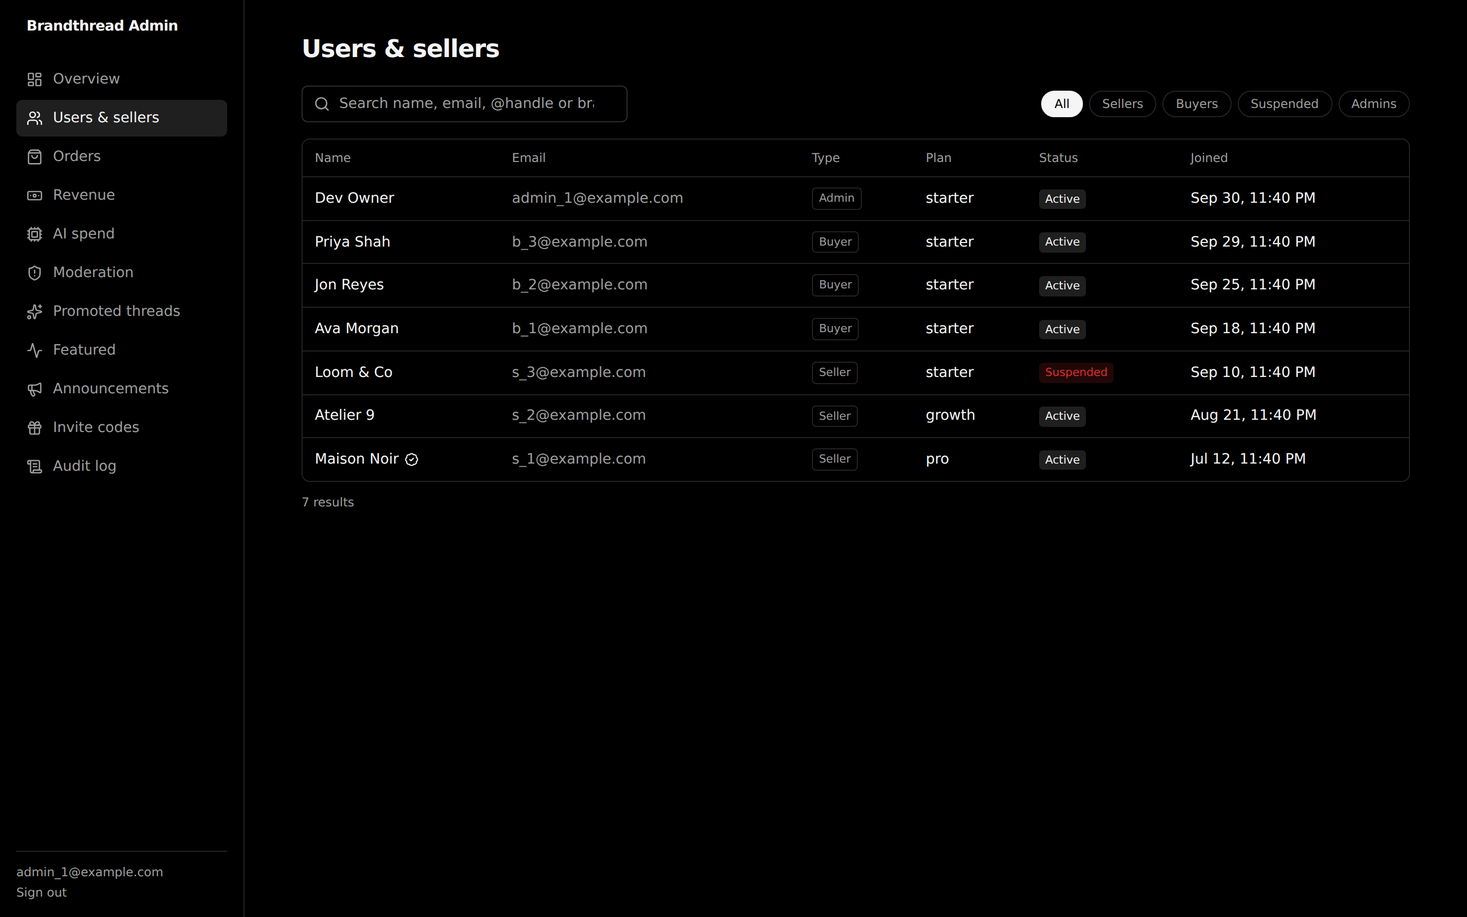
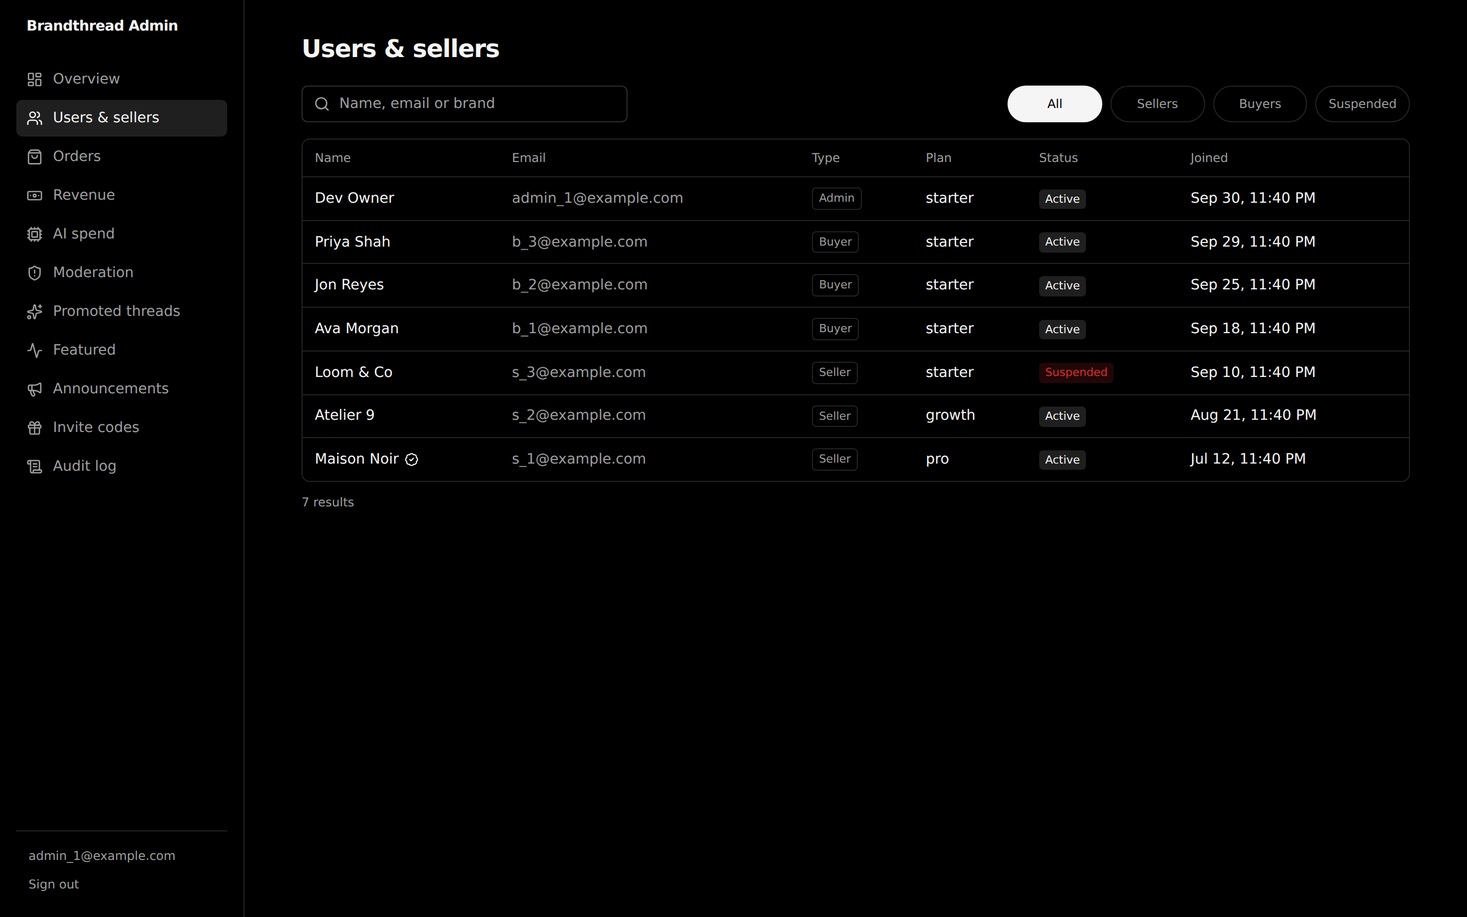
Admin UI: text-fit & alignment pass, automated text-fit check, zoomed captures
- Equal-width chip grids (no ragged rows), ActionButton/ActionGroup for row actions, equal-size
  dialog and sheet buttons, >=12px inner padding everywhere
- No ellipsis/line-clamp on labels; mobile cards wrap instead of truncating
- Shorter placeholders and action labels; left-aligned dialog headers; mobile header without divider
- scripts/text-fit-check.mjs (scrollWidth/clip, spill-out, padding, centring, sibling size, placeholders,
  incl. sheet + dialog states at 393x852 and 1440x900), zoom-shots.mjs, page-shots.mjs

Claude-Session: https://claude.ai/code/session_014DpmGe5j4ymYEjkgVjyfYb

Changed region(s): [[0.6875, 0.0933, 0.9688, 0.1556], [0.0, 0.9022, 0.125, 0.9956], [0.2188, 0.0933, 0.4062, 0.1244]]

diff --git a/artifacts/manufacturer-portal/src/admin/ui.tsx b/artifacts/manufacturer-portal/src/admin/ui.tsx
@@ -1,4 +1,5 @@
 import { useEffect, useState, type ReactNode } from "react";
+import type React from "react";
 import { Search, X } from "lucide-react";
 import { cn } from "@/lib/utils";
 import { Button } from "@/components/ui/button";
@@ -50,17 +51,39 @@ export function SearchBox({ value, onChange, placeholder }: { value: string; onC
   );
 }
 
+const MOBILE_COLS: Record<number, string> = { 1: "grid-cols-1", 2: "grid-cols-2", 3: "grid-cols-3", 6: "grid-cols-3" };
+
+/** Filter chips: equal-width cells on one grid (3 per row on phones when there are more than 4). */
 export function Chips<T extends string>({ value, options, onChange }: { value: T; options: { id: T; label: string }[]; onChange: (v: T) => void }) {
+  // Always a full grid (never a ragged last row): 4 short labels fit in one row, 4 long ones go 2x2.
+  const cols = options.length === 4 ? (options.some((o) => o.label.length > 8) ? "grid-cols-2" : "grid-cols-4") : MOBILE_COLS[options.length] ?? "grid-cols-2";
   return (
-    <div className="flex flex-wrap gap-1.5">
+    <div className={cn("grid gap-2 md:inline-grid md:auto-cols-fr md:grid-flow-col md:grid-cols-none", cols)}>
       {options.map((o) => (
         <button key={o.id} onClick={() => onChange(o.id)}
-          className={cn("rounded-full border px-3 py-1 text-xs font-medium", value === o.id ? "border-foreground bg-foreground text-background" : "border-border text-muted-foreground hover:text-foreground")}>
+          className={cn("inline-flex h-9 items-center justify-center whitespace-nowrap rounded-full border px-3 text-xs font-medium",
+            value === o.id ? "border-foreground bg-foreground text-background" : "border-border text-muted-foreground hover:text-foreground")}>
           {o.label}
         </button>
       ))}
     </div>
   );
+}
+
+/** Small outlined row action. Always used inside ActionGroup so siblings match in size. */
+export function ActionButton({ children, solid, ...props }: { solid?: boolean } & React.ButtonHTMLAttributes<HTMLButtonElement>) {
+  return (
+    <button {...props}
+      className={cn("inline-flex h-8 min-w-[5rem] items-center justify-center whitespace-nowrap rounded-md border px-3 text-xs font-medium",
+        solid ? "border-foreground bg-foreground text-background" : "border-border hover:border-foreground")}>
+      {children}
+    </button>
+  );
+}
+
+/** Equal-width, equal-height button row. */
+export function ActionGroup({ children }: { children: ReactNode }) {
+  return <div className="grid auto-cols-fr grid-flow-col gap-2">{children}</div>;
 }
 
 export function Badge({ children, tone = "neutral" }: { children: ReactNode; tone?: "neutral" | "solid" | "outline" | "danger" }) {
@@ -111,8 +134,8 @@ export function DataTable<R>({ columns, rows, rowKey, onRowClick, empty, loading
             <dl className="space-y-1.5">
               {columns.filter((c) => c !== primary).map((c) => (
                 <div key={c.header} className="flex items-baseline justify-between gap-4 text-[13px]">
-                  <dt className="shrink-0 text-muted-foreground">{c.header}</dt>
-                  <dd className="min-w-0 truncate text-right">{c.cell(r)}</dd>
+                  <dt className="shrink-0 whitespace-nowrap text-muted-foreground">{c.header}</dt>
+                  <dd className="min-w-0 break-words text-right">{c.cell(r)}</dd>
                 </div>
               ))}
             </dl>
@@ -129,8 +152,8 @@ export function Pager({ offset, limit, hasMore, total, onChange }: { offset: num
     <div className="mt-3 flex items-center justify-between text-xs text-muted-foreground">
       <span>{total != null ? `${offset + 1}–${Math.min(offset + limit, total)} of ${total}` : `Showing ${offset + 1}+`}</span>
       <div className="flex gap-2">
-        <Button size="sm" variant="outline" disabled={offset === 0} onClick={() => onChange(Math.max(0, offset - limit))}>Previous</Button>
-        <Button size="sm" variant="outline" disabled={!hasMore} onClick={() => onChange(offset + limit)}>Next</Button>
+        <Button size="sm" variant="outline" className="h-8 w-24 px-3" disabled={offset === 0} onClick={() => onChange(Math.max(0, offset - limit))}>Previous</Button>
+        <Button size="sm" variant="outline" className="h-8 w-24 px-3" disabled={!hasMore} onClick={() => onChange(offset + limit)}>Next</Button>
       </div>
     </div>
   );
@@ -146,16 +169,16 @@ export function ConfirmAction({ open, title, description, confirmLabel, reasonLa
   return (
     <AlertDialog open={open} onOpenChange={(o) => !o && onCancel()}>
       <AlertDialogContent className="border-border bg-popover">
-        <AlertDialogHeader>
+        <AlertDialogHeader className="text-left sm:text-left">
           <AlertDialogTitle>{title}</AlertDialogTitle>
           <AlertDialogDescription>{description}</AlertDialogDescription>
         </AlertDialogHeader>
         {reasonLabel && <Textarea value={reason} onChange={(e) => setReason(e.target.value)} placeholder={reasonLabel} maxLength={500} rows={3} />}
         {error ? <p className="text-sm text-destructive">{errorMessage(error)}</p> : null}
-        <AlertDialogFooter>
-          <AlertDialogCancel onClick={onCancel}>Cancel</AlertDialogCancel>
+        <AlertDialogFooter className="grid grid-cols-2 gap-2 sm:space-x-0">
+          <AlertDialogCancel onClick={onCancel} className="mt-0 h-10 w-full px-3">Cancel</AlertDialogCancel>
           <AlertDialogAction disabled={pending || (!!reasonRequired && !reason.trim())} onClick={(e) => { e.preventDefault(); onConfirm(reason.trim()); }}
-            className={cn(destructive && "bg-destructive text-destructive-foreground hover:bg-destructive/90")}>
+            className={cn("h-10 w-full px-3", destructive && "bg-destructive text-destructive-foreground hover:bg-destructive/90")}>
             {pending ? "Working…" : confirmLabel}
           </AlertDialogAction>
         </AlertDialogFooter>

diff --git a/artifacts/manufacturer-portal/src/admin/pages/moderation.tsx b/artifacts/manufacturer-portal/src/admin/pages/moderation.tsx
@@ -1,5 +1,5 @@
 import { useState } from "react";
-import { Badge, Chips, ConfirmAction, DataTable, ErrorLine, PageTitle, Pager, StatCards } from "../ui";
+import { ActionButton, ActionGroup, Badge, Chips, ConfirmAction, DataTable, ErrorLine, PageTitle, Pager, StatCards } from "../ui";
 import { useModerationQuery, useModerationResolve, when } from "../api";
 
 /**
@@ -17,8 +17,8 @@ const LIMIT = 25;
 const who = (p: Person | null) => (p ? p.displayName || p.name || (p.username ? `@${p.username}` : "Unknown") : "Unknown");
 const ACTIONS = [
   { id: "dismiss", label: "Dismiss", title: "Dismiss this report?", body: "The content stays up (or is released if the filter held it).", destructive: false },
-  { id: "remove_content", label: "Remove content", title: "Remove this content?", body: "It's taken down for everyone. The owner's account is untouched.", destructive: true },
-  { id: "suspend_user", label: "Suspend owner", title: "Suspend the content owner?", body: "They're signed out everywhere and their content is hidden. Reinstate them any time from Users.", destructive: true },
+  { id: "remove_content", label: "Remove", title: "Remove this content?", body: "It's taken down for everyone. The owner's account is untouched.", destructive: true },
+  { id: "suspend_user", label: "Suspend", title: "Suspend the content owner?", body: "They're signed out everywhere and their content is hidden. Reinstate them any time from Users.", destructive: true },
 ] as const;
 
 export default function ModerationPage() {
@@ -43,7 +43,7 @@ export default function ModerationPage() {
           { header: "Reported", primary: true, cell: (r) => (
             <div className="max-w-md">
               <div className="font-medium capitalize">{r.targetType}{r.targetLabel ? ` · ${r.targetLabel}` : ""}</div>
-              {r.contentExcerpt && <div className="mt-0.5 line-clamp-2 text-xs text-muted-foreground">{r.contentExcerpt}</div>}
+              {r.contentExcerpt && <div className="mt-0.5 text-xs text-muted-foreground">{r.contentExcerpt}</div>}
             </div>) },
           { header: "Reason", cell: (r) => <span className="capitalize">{r.reason.replaceAll("_", " ")}{r.source === "auto_filter" ? " · filter" : ""}</span> },
           { header: "Owner", cell: (r) => who(r.owner) },
@@ -51,15 +51,14 @@ export default function ModerationPage() {
           { header: "Reported at", cell: (r) => when(r.createdAt) },
           { header: status === "open" ? "Action" : "Outcome", cell: (r) => r.resolution
             ? <Badge>{(r.resolution.action ?? r.status).replaceAll("_", " ")}</Badge>
-            : <div className="flex flex-wrap justify-end gap-1.5">
+            : <ActionGroup>
                 {ACTIONS.map((a) => (
-                  <button key={a.id} onClick={(e) => { e.stopPropagation(); setPending({ report: r, action: a }); }}
-                    className="rounded border border-border px-2 py-1 text-xs hover:border-foreground">{a.label}</button>
+                  <ActionButton key={a.id} onClick={(e) => { e.stopPropagation(); setPending({ report: r, action: a }); }}>{a.label}</ActionButton>
                 ))}
-              </div> },
+              </ActionGroup> },
         ]} />
       <Pager offset={offset} limit={LIMIT} hasMore={!!data?.hasMore} onChange={setOffset} />
-      <ConfirmAction open={!!pending} title={pending?.action.title ?? ""} description={pending?.action.body ?? ""} confirmLabel={pending?.action.label ?? ""}
+      <ConfirmAction open={!!pending} title={pending?.action.title ?? ""} description={pending?.action.body ?? ""} confirmLabel={pending?.action.id === "suspend_user" ? "Suspend owner" : pending?.action.id === "remove_content" ? "Remove content" : "Dismiss"}
         destructive={pending?.action.destructive} reasonLabel="Note (optional)" pending={resolve.isPending} error={resolve.error}
         onCancel={() => setPending(null)}
         onConfirm={(note) => pending && resolve.mutate({ id: pending.report.id, action: pending.action.id, note }, { onSuccess: () => setPending(null) })} />

diff --git a/artifacts/manufacturer-portal/src/admin/pages/promotions.tsx b/artifacts/manufacturer-portal/src/admin/pages/promotions.tsx
@@ -1,5 +1,5 @@
 import { useState } from "react";
-import { Badge, Chips, ConfirmAction, DataTable, ErrorLine, PageTitle, Pager } from "../ui";
+import { ActionButton, ActionGroup, Badge, Chips, ConfirmAction, DataTable, ErrorLine, PageTitle, Pager } from "../ui";
 import { money, useAdminMutation, useAdminQuery, when } from "../api";
 
 interface Boost {
@@ -25,8 +25,8 @@ export default function PromotionsPage() {
         columns={[
           { header: "Thread", primary: true, cell: (b) => (
             <div className="flex items-center gap-3">
-              {b.thread.thumbnailUrl && <img src={b.thread.thumbnailUrl} alt="" className="h-12 w-9 rounded object-cover" />}
-              <div className="min-w-0"><div className="line-clamp-2 max-w-xs font-medium">{b.thread.caption || "Untitled thread"}</div></div>
+              {b.thread.thumbnailUrl && <img src={b.thread.thumbnailUrl} alt="" className="h-12 w-9 shrink-0 rounded bg-secondary object-cover" onError={(e) => { e.currentTarget.style.visibility = "hidden"; }} />}
+              <div className="min-w-0"><div className="max-w-xs font-medium">{b.thread.caption || "Untitled thread"}</div></div>
             </div>) },
           { header: "Seller", cell: (b) => b.seller.name ?? "—" },
           { header: "Goal", cell: (b) => <span className="capitalize">{b.objective.replaceAll("_", " ")}</span> },
@@ -34,10 +34,10 @@ export default function PromotionsPage() {
           { header: "Paid", cell: (b) => when(b.paidAt) },
           { header: status === "pending" ? "Decision" : "Outcome", cell: (b) => b.review
             ? <Badge tone={b.review.status === "approved" ? "solid" : "danger"}>{b.review.status}</Badge>
-            : <div className="flex justify-end gap-1.5">
-                <button className="rounded border border-foreground bg-foreground px-2.5 py-1 text-xs font-medium text-background" onClick={() => setTarget({ boost: b, decision: "approve" })}>Approve</button>
-                <button className="rounded border border-border px-2.5 py-1 text-xs hover:border-foreground" onClick={() => setTarget({ boost: b, decision: "reject" })}>Reject</button>
-              </div> },
+            : <ActionGroup>
+                <ActionButton solid onClick={() => setTarget({ boost: b, decision: "approve" })}>Approve</ActionButton>
+                <ActionButton onClick={() => setTarget({ boost: b, decision: "reject" })}>Reject</ActionButton>
+              </ActionGroup> },
         ]} />
       <Pager offset={offset} limit={LIMIT} hasMore={!!data?.hasMore} total={data?.total} onChange={setOffset} />
       <ConfirmAction open={!!target} confirmLabel={target?.decision === "approve" ? "Approve" : "Reject promotion"} destructive={target?.decision === "reject"}

diff --git a/artifacts/manufacturer-portal/src/admin/pages/featured.tsx b/artifacts/manufacturer-portal/src/admin/pages/featured.tsx
@@ -1,7 +1,7 @@
 import { useState } from "react";
 import { Button } from "@/components/ui/button";
 import { Input } from "@/components/ui/input";
-import { Badge, Chips, ConfirmAction, DataTable, ErrorLine, PageTitle } from "../ui";
+import { ActionButton, ActionGroup, Badge, Chips, ConfirmAction, DataTable, ErrorLine, PageTitle } from "../ui";
 import { useAdminMutation, useAdminQuery } from "../api";
 
 interface Featured {
@@ -28,7 +28,7 @@ export default function FeaturedPage() {
         <div className="grid gap-2 md:grid-cols-[1fr_1fr_auto]">
           <Input value={targetId} onChange={(e) => setTargetId(e.target.value)} placeholder={kind === "brand" ? "Brand's user ID (from Users)" : "Thread ID"} required />
           <Input value={label} onChange={(e) => setLabel(e.target.value)} placeholder="Label (optional)" maxLength={120} />
-          <Button type="submit" disabled={add.isPending || !targetId.trim()}>{add.isPending ? "Adding…" : "Feature"}</Button>
+          <Button type="submit" className="h-10 w-full px-4 md:w-auto" disabled={add.isPending || !targetId.trim()}>{add.isPending ? "Adding…" : "Feature"}</Button>
         </div>
         <ErrorLine error={add.error} />
       </form>
@@ -40,10 +40,10 @@ export default function FeaturedPage() {
           { header: "Label", cell: (f) => f.label ?? "—" },
           { header: "Status", cell: (f) => f.target.missing ? <Badge tone="danger">Unavailable</Badge> : f.active ? <Badge tone="solid">Live</Badge> : <Badge>Hidden</Badge> },
           { header: "", className: "text-right", cell: (f) => (
-            <div className="flex justify-end gap-1.5">
-              <button className="rounded border border-border px-2 py-1 text-xs hover:border-foreground" onClick={() => patch.mutate({ id: f.id, active: !f.active })}>{f.active ? "Hide" : "Show"}</button>
-              <button className="rounded border border-border px-2 py-1 text-xs hover:border-foreground" onClick={() => setRemoving(f)}>Remove</button>
-            </div>) },
+            <ActionGroup>
+              <ActionButton onClick={() => patch.mutate({ id: f.id, active: !f.active })}>{f.active ? "Hide" : "Show"}</ActionButton>
+              <ActionButton onClick={() => setRemoving(f)}>Remove</ActionButton>
+            </ActionGroup>) },
         ]} />
       <ConfirmAction open={!!removing} title="Remove from Discover?" description="It stops being featured. The brand or thread itself isn't affected." confirmLabel="Remove"
         pending={remove.isPending} error={remove.error} onCancel={() => setRemoving(null)}

diff --git a/artifacts/manufacturer-portal/src/admin/pages/users.tsx b/artifacts/manufacturer-portal/src/admin/pages/users.tsx
@@ -16,7 +16,7 @@ interface UserDetail extends AdminUser {
   reports: { total: number; open: number };
   aiSpend: { costMicros: number; calls: number };
 }
-type Kind = "all" | "sellers" | "buyers" | "suspended" | "admins";
+type Kind = "all" | "sellers" | "buyers" | "suspended";
 const LIMIT = 25;
 
 export default function UsersPage() {
@@ -31,10 +31,10 @@ export default function UsersPage() {
     <>
       <PageTitle title="Users & sellers" />
       <div className="mb-4 flex flex-col gap-3 md:flex-row md:items-center md:justify-between">
-        <SearchBox value={q} onChange={(v) => { setQ(v); setOffset(0); }} placeholder="Search name, email, @handle or brand" />
+        <SearchBox value={q} onChange={(v) => { setQ(v); setOffset(0); }} placeholder="Name, email or brand" />
         <Chips value={kind} onChange={(k) => { setKind(k); setOffset(0); }} options={[
           { id: "all", label: "All" }, { id: "sellers", label: "Sellers" }, { id: "buyers", label: "Buyers" },
-          { id: "suspended", label: "Suspended" }, { id: "admins", label: "Admins" },
+          { id: "suspended", label: "Suspended" },
         ]} />
       </div>
       <ErrorLine error={error} />
@@ -96,12 +96,12 @@ function UserSheet({ clerkId, onClose }: { clerkId: string | null; onClose: () =
             <ErrorLine error={verify.error} />
             {!isAdmin && (
               <div className="mt-5 flex flex-col gap-2">
-                <Button variant="outline" disabled={verify.isPending} onClick={() => verify.mutate({ verified: !u.verified })}>
+                <Button variant="outline" className="h-10 w-full px-3" disabled={verify.isPending} onClick={() => verify.mutate({ verified: !u.verified })}>
                   {u.verified ? "Remove verified badge" : "Give verified badge"}
                 </Button>
                 {u.suspended
-                  ? <Button variant="outline" onClick={() => setConfirm("reinstate")}>Reinstate account</Button>
-                  : <Button variant="destructive" onClick={() => setConfirm("suspend")}>Suspend account</Button>}
+                  ? <Button variant="outline" className="h-10 w-full px-3" onClick={() => setConfirm("reinstate")}>Reinstate account</Button>
+                  : <Button variant="destructive" className="h-10 w-full px-3" onClick={() => setConfirm("suspend")}>Suspend account</Button>}
               </div>
             )}
           </div>

diff --git a/artifacts/manufacturer-portal/src/admin/pages/invites.tsx b/artifacts/manufacturer-portal/src/admin/pages/invites.tsx
@@ -2,7 +2,7 @@ import { useState } from "react";
 import { Copy } from "lucide-react";
 import { Button } from "@/components/ui/button";
 import { Input } from "@/components/ui/input";
-import { Badge, DataTable, ErrorLine, PageTitle } from "../ui";
+import { ActionButton, ActionGroup, Badge, DataTable, ErrorLine, PageTitle } from "../ui";
 import { useAdminMutation, useAdminQuery, when } from "../api";
 
 interface Invite { id: string; code: string; label: string | null; maxUses: number | null; uses: number; expiresAt: string | null; status: string; createdAt: string }
@@ -35,7 +35,7 @@ export default function InvitesPage() {
           <Input type="date" value={expires} onChange={(e) => setExpires(e.target.value)} aria-label="Expires" min={new Date().toISOString().slice(0, 10)} />
         </div>
         <ErrorLine error={create.error} />
-        <Button type="submit" disabled={create.isPending}>{create.isPending ? "Generating…" : "Generate"}</Button>
+        <Button type="submit" className="h-10 w-full px-4 md:w-auto" disabled={create.isPending}>{create.isPending ? "Generating…" : "Generate"}</Button>
         {fresh.length > 0 && (
           <div className="flex flex-wrap gap-2 pt-1">
             {fresh.map((c) => (
@@ -55,8 +55,7 @@ export default function InvitesPage() {
           { header: "Expires", cell: (c) => (c.expiresAt ? when(c.expiresAt) : "Never") },
           { header: "Status", cell: (c) => <Badge tone={c.status === "active" ? "solid" : "neutral"}>{c.status}</Badge> },
           { header: "", className: "text-right", cell: (c) => (
-            <button className="rounded border border-border px-2 py-1 text-xs hover:border-foreground"
-              onClick={() => (c.status === "disabled" ? enable : disable).mutate({ id: c.id })}>{c.status === "disabled" ? "Enable" : "Disable"}</button>) },
+            <ActionGroup><ActionButton onClick={() => (c.status === "disabled" ? enable : disable).mutate({ id: c.id })}>{c.status === "disabled" ? "Enable" : "Disable"}</ActionButton></ActionGroup>) },
         ]} />
     </>
   );

diff --git a/artifacts/manufacturer-portal/src/admin/pages/announcements.tsx b/artifacts/manufacturer-portal/src/admin/pages/announcements.tsx
@@ -37,14 +37,14 @@ export default function AnnouncementsPage() {
         </div>
         <div className="flex items-center justify-between gap-3">
           <span className="text-xs text-muted-foreground">{reach ? `Reaches ${reach.recipients.toLocaleString()} people` : ""}</span>
-          <Button disabled={!valid} onClick={() => setConfirming(true)}>Send…</Button>
+          <Button className="h-10 px-5" disabled={!valid} onClick={() => setConfirming(true)}>Send…</Button>
         </div>
       </div>
       <ErrorLine error={error} />
       <h2 className="mb-2 text-xs font-medium uppercase tracking-wide text-muted-foreground">Sent</h2>
       <DataTable rows={history?.items} rowKey={(a) => a.id} empty="No announcements sent yet."
         columns={[
-          { header: "Announcement", primary: true, cell: (a) => (<div><div className="font-medium">{a.title}</div><div className="line-clamp-1 text-xs text-muted-foreground">{a.body}</div></div>) },
+          { header: "Announcement", primary: true, cell: (a) => (<div><div className="font-medium">{a.title}</div><div className="text-xs text-muted-foreground">{a.body}</div></div>) },
           { header: "Audience", cell: (a) => <Badge tone="outline">{a.audience}</Badge> },
           { header: "Channels", cell: (a) => [a.sendPush && "Push", a.sendInApp && "In-app"].filter(Boolean).join(" + ") },
           { header: "Status", cell: (a) => <Badge tone={a.status === "failed" ? "danger" : a.status === "sent" ? "neutral" : "outline"}>{a.status}</Badge> },

diff --git a/artifacts/manufacturer-portal/src/admin/AdminApp.tsx b/artifacts/manufacturer-portal/src/admin/AdminApp.tsx
@@ -63,8 +63,8 @@ function Shell({ email, children }: { email?: string; children: ReactNode }) {
   const current = NAV.find((n) => (n.exact ? location === n.href : location.startsWith(n.href)))?.label ?? "Admin";
   const footer = (
     <div className="border-t border-border pt-3 text-xs text-muted-foreground">
-      <div className="truncate">{email}</div>
-      <button className="mt-1 hover:text-foreground" onClick={() => signOut()}>Sign out</button>
+      <div className="break-all px-3 py-1">{email}</div>
+      <button className="w-full rounded-md px-3 py-2 text-left hover:text-foreground" onClick={() => signOut()}>Sign out</button>
     </div>
   );
   return (
@@ -77,7 +77,7 @@ function Shell({ email, children }: { email?: string; children: ReactNode }) {
         {footer}
       </aside>
       <div className="min-w-0 flex-1">
-        <header className="sticky top-0 z-20 flex h-14 items-center gap-3 border-b border-border bg-background px-4 md:hidden">
+        <header className="sticky top-0 z-20 flex h-14 items-center gap-3 bg-background px-4 md:hidden">
           <button aria-label="Open menu" onClick={() => setOpen(true)}><Menu className="h-5 w-5" /></button>
           <span className="text-sm font-medium">{current}</span>
         </header>

diff --git a/artifacts/manufacturer-portal/src/admin/pages/orders.tsx b/artifacts/manufacturer-portal/src/admin/pages/orders.tsx
@@ -38,7 +38,7 @@ function OrderList() {
   return (
     <>
       <div className="mb-4 flex flex-col gap-3 md:flex-row md:items-center md:justify-between">
-        <SearchBox value={q} onChange={(v) => { setQ(v); setOffset(0); }} placeholder="Order number or guest email" />
+        <SearchBox value={q} onChange={(v) => { setQ(v); setOffset(0); }} placeholder="Order number or email" />
         <Chips value={status} onChange={(s) => { setStatus(s); setOffset(0); }} options={[
           { id: "", label: "All" }, { id: "pending", label: "Pending" }, { id: "processing", label: "Processing" },
           { id: "shipped", label: "Shipped" }, { id: "fulfilled", label: "Fulfilled" }, { id: "cancelled", label: "Cancelled" },

diff --git a/artifacts/manufacturer-portal/src/admin/pages/audit.tsx b/artifacts/manufacturer-portal/src/admin/pages/audit.tsx
@@ -13,7 +13,7 @@ export default function AuditPage() {
   return (
     <>
       <PageTitle title="Audit log" />
-      <div className="mb-4"><SearchBox value={action} onChange={(v) => { setAction(v); setOffset(0); }} placeholder="Filter by action, e.g. user.suspend" /></div>
+      <div className="mb-4"><SearchBox value={action} onChange={(v) => { setAction(v); setOffset(0); }} placeholder="Filter by action" /></div>
       <ErrorLine error={error} />
       <DataTable loading={isLoading} rows={data?.items} rowKey={(e) => e.id} empty="No admin actions recorded yet."
         columns={[
